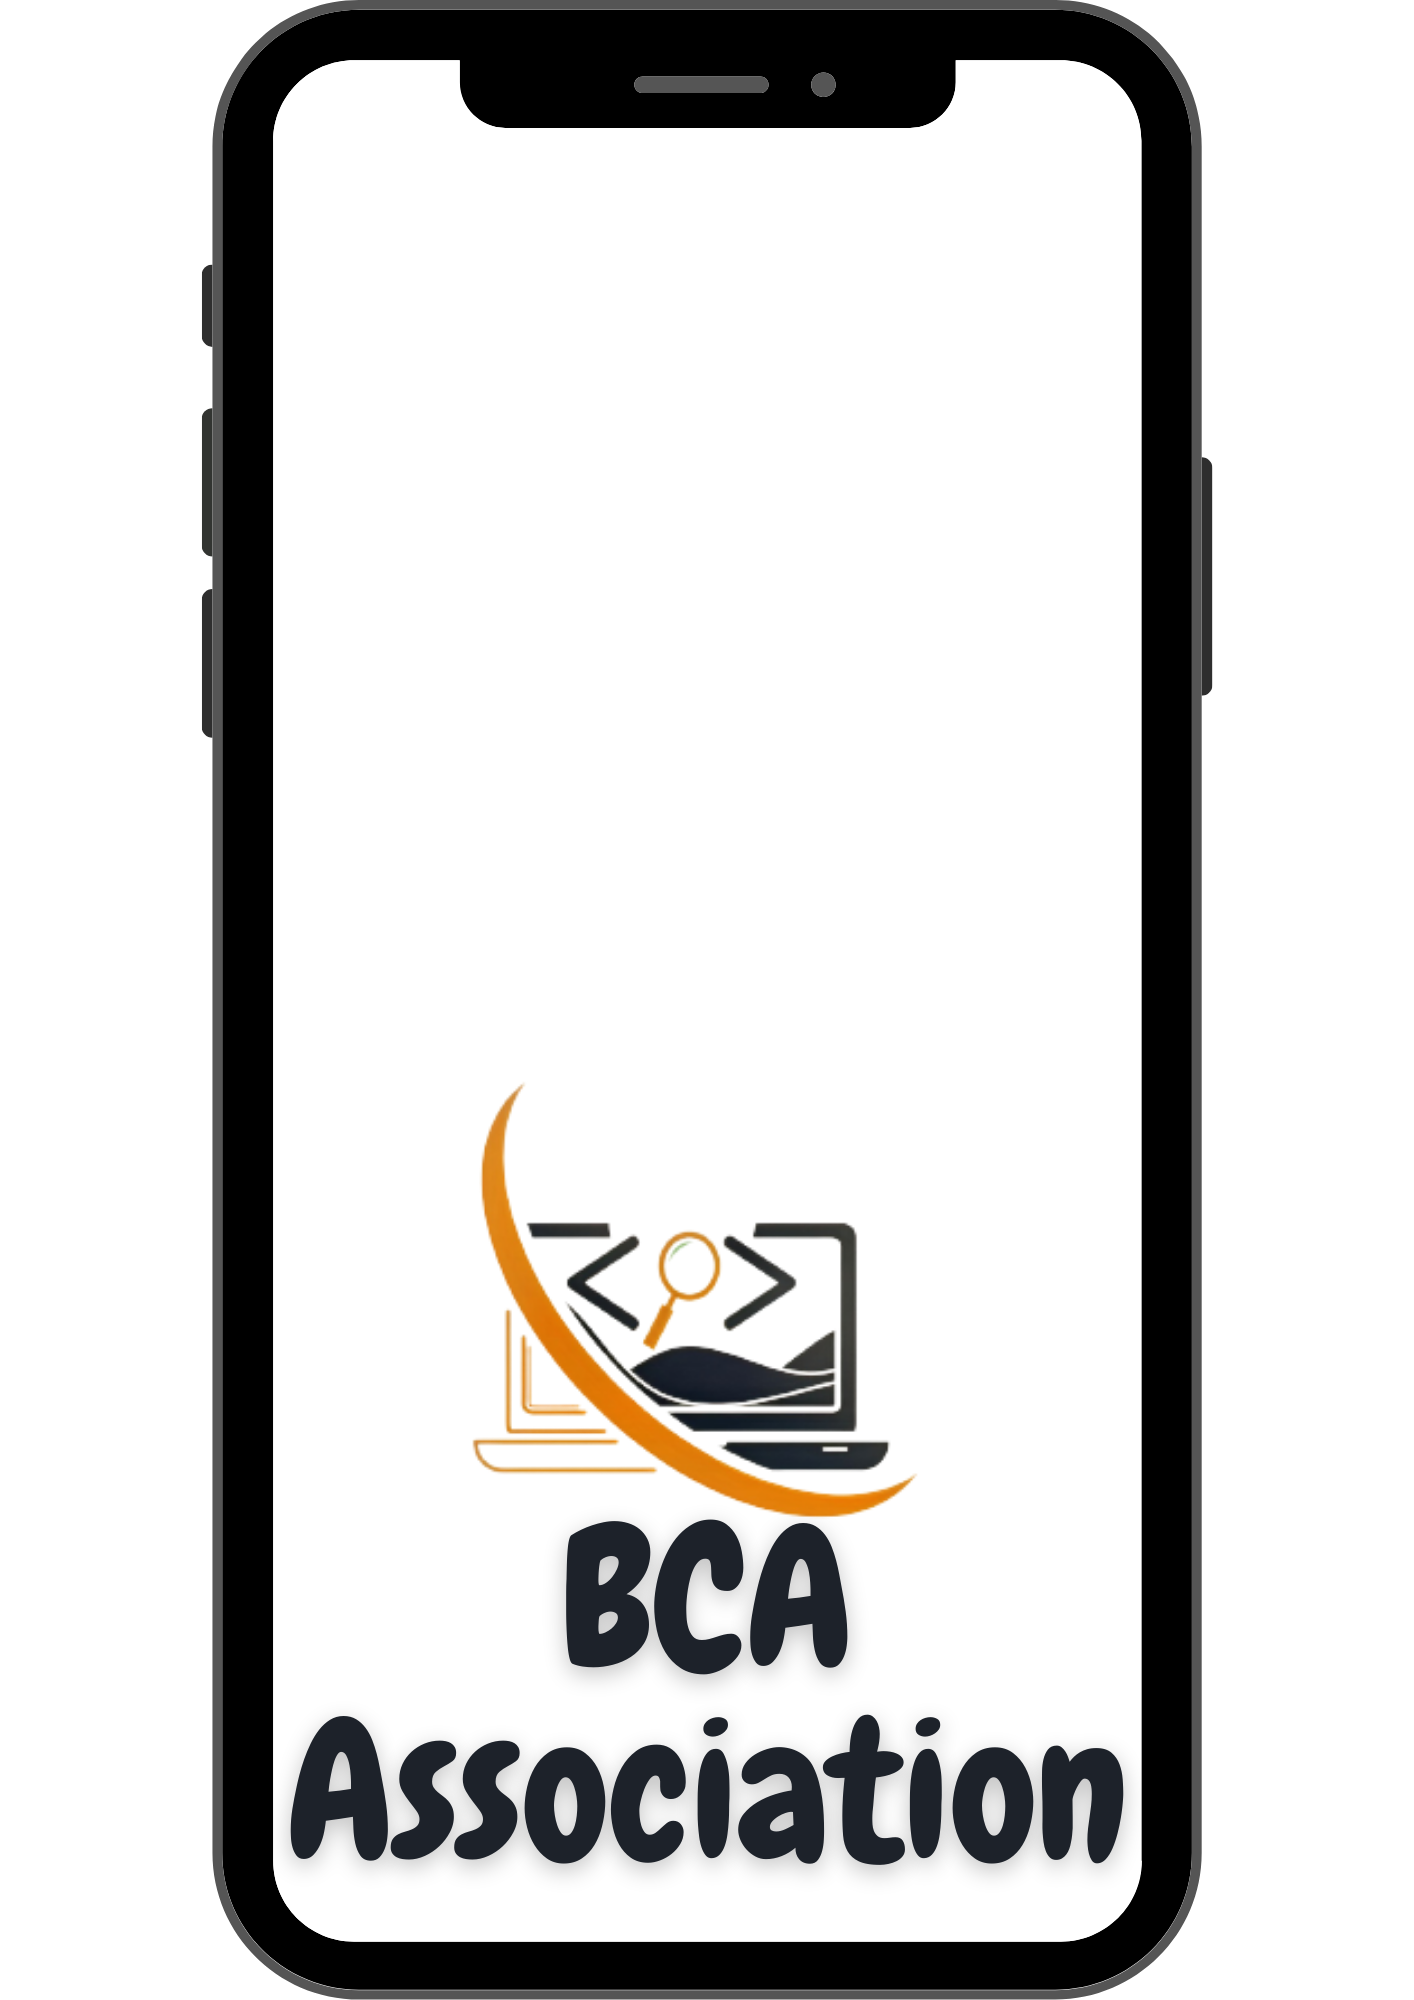
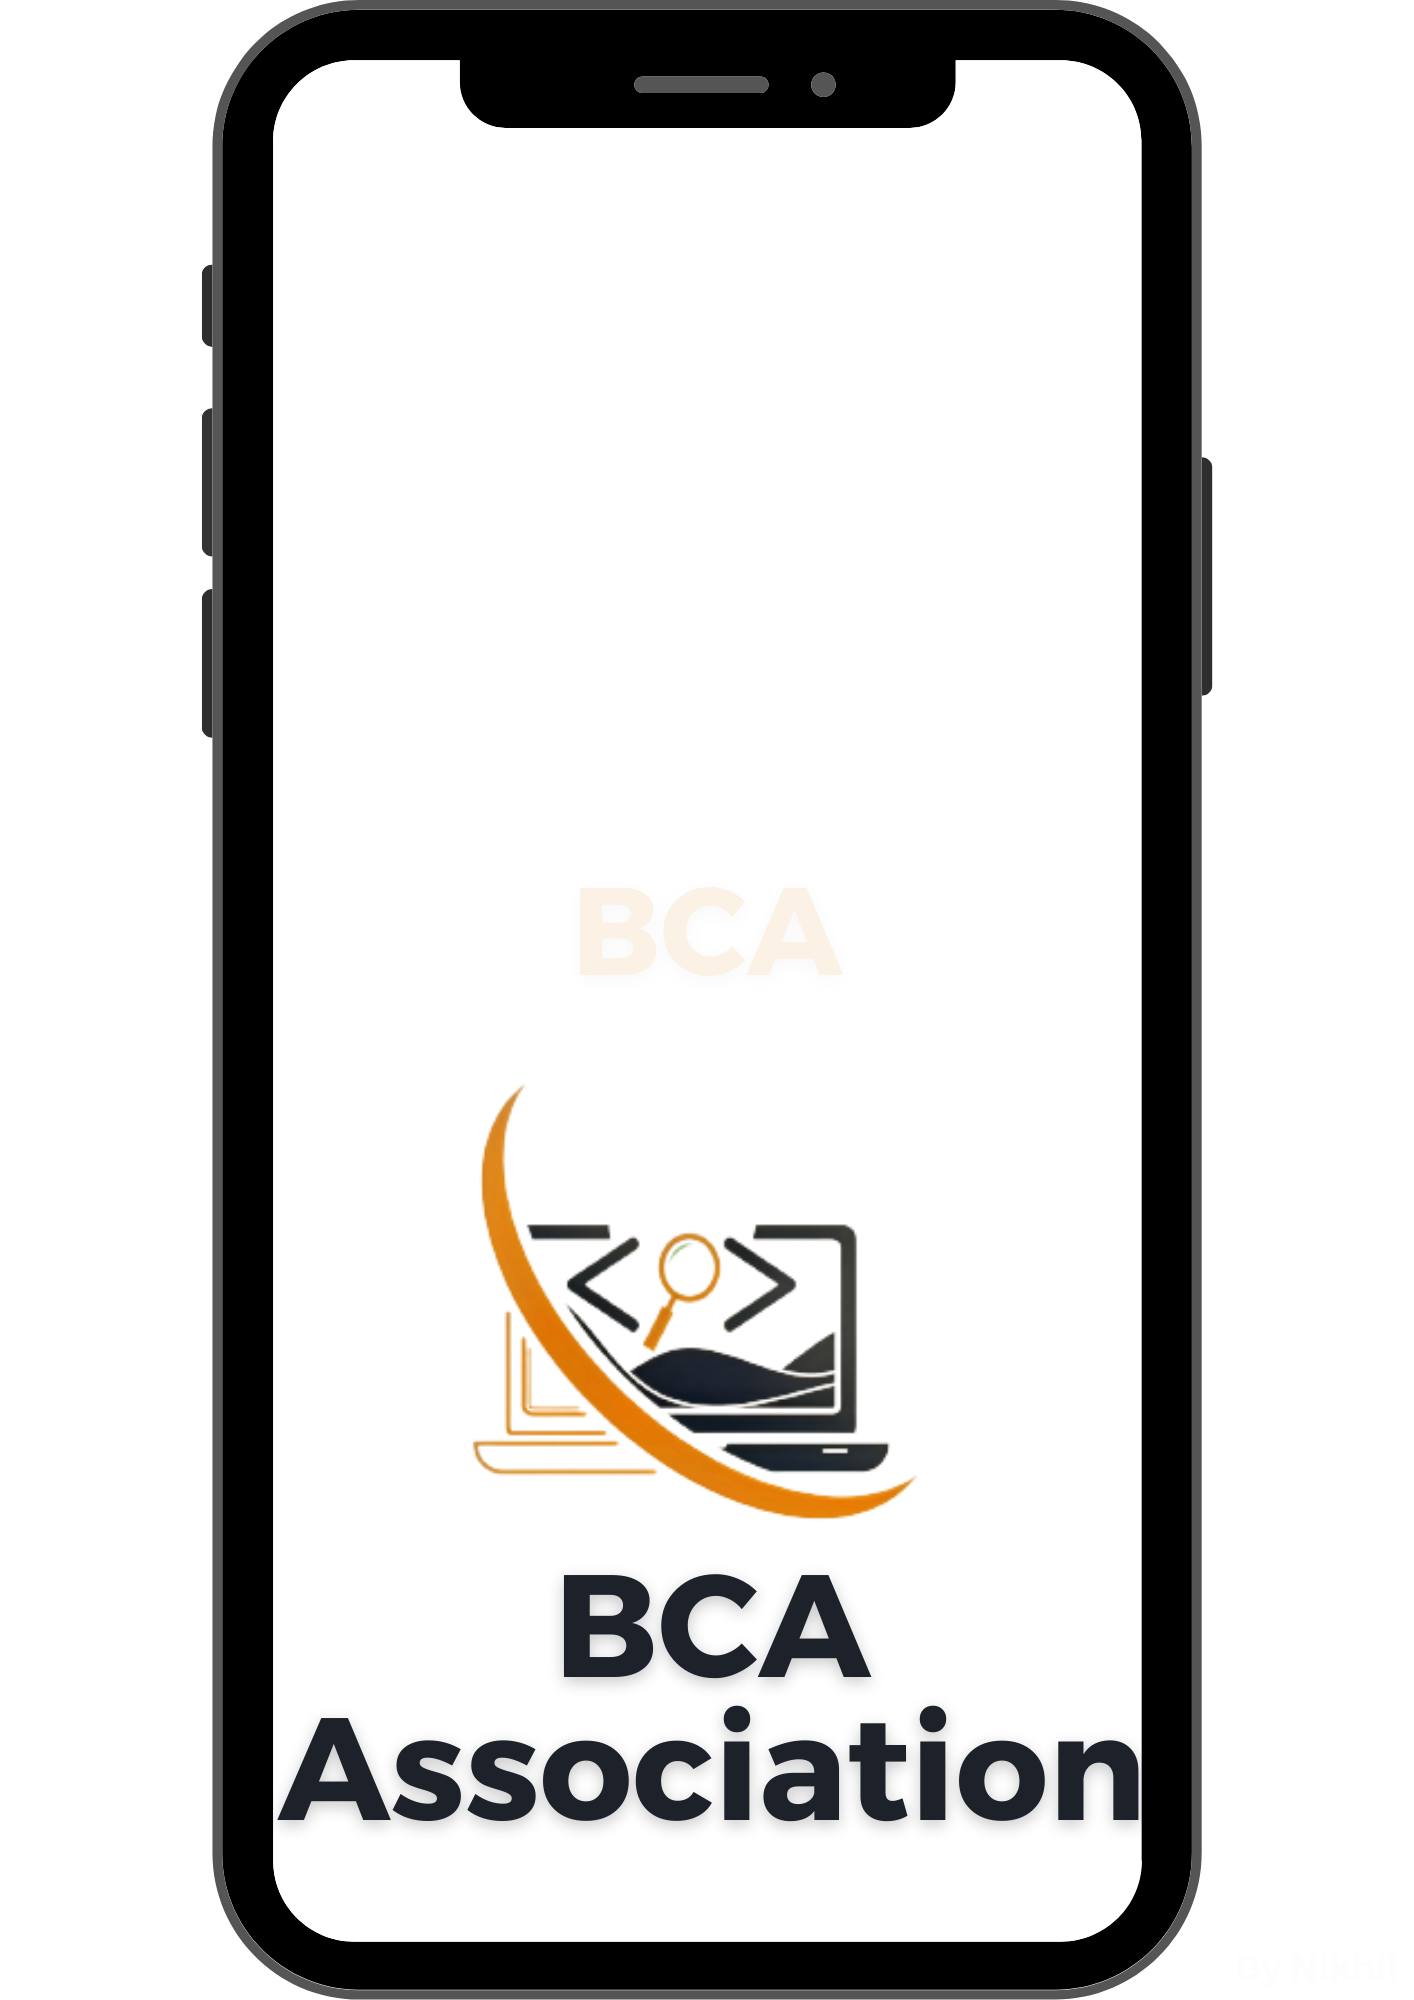
Redesigned my handleDownload function made it beautiful

Changed region(s): [[0.1867, 0.589, 0.8091, 0.961], [0.4045, 0.434, 0.5912, 0.496]]

diff --git a/src/App.js b/src/App.js
@@ -70,7 +70,7 @@ function App() {
   pdfDoc.addImage(qrCodeDataURL, "PNG", qrCodeX, qrCodeY, qrCodeSize, qrCodeSize);
 
   // Add student's name to the PDF document
-  pdfDoc.setFont('helvetica', 'bold');
+  pdfDoc.setFont('Montserrat', 'bold');
   pdfDoc.setFontSize(22);
   pdfDoc.setTextColor('#1D222A');
   pdfDoc.text(name, 105, 32.5, { align: 'center', maxWidth: 100 });
